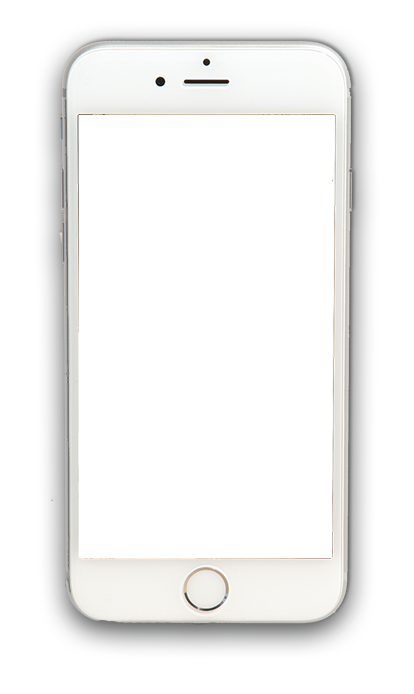
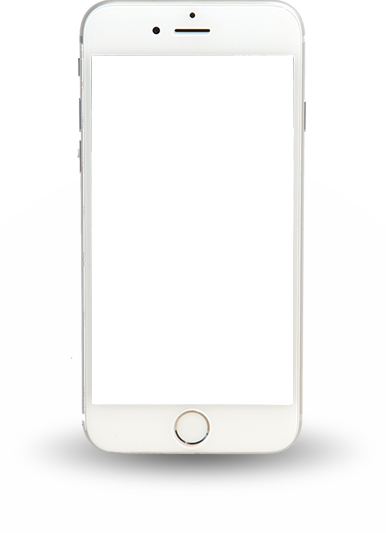
css change

Changed region(s): [[0.0933, 0.0, 0.9016, 0.9306]]

diff --git a/src/assets/styles/_utils.scss b/src/assets/styles/_utils.scss
@@ -286,6 +286,10 @@ p {
     padding: 93px 0;
 }
 
+.padding-top-bottom-10 {
+    padding: 10px 0;
+}
+
 .padding-top-bottom-20 {
     padding: 20px 0;
 }
@@ -4409,10 +4413,10 @@ z #generic_price_table .generic_content,
 
 .mob {
     background: url(../images/phone.png) no-repeat center center;
-    height: 694px;
-    width: 414px;
+    height: 602px;
+    width: 366px;
     margin: 0 auto;
-    padding-top: 120px;
+    padding-top: 90px;
 }
 
 .bg-texture {
@@ -4510,9 +4514,9 @@ z #generic_price_table .generic_content,
 }
 
 .round-g-btn:hover {
-    border: 1px solid #00aff0;
+    border: 1px solid #000;
     background: #fff;
-    color: #00aff0;
+    color: #000;
     transition: all .40s ease;
 }
 
@@ -4905,20 +4909,33 @@ z #generic_price_table .generic_content,
 
 .select-btn ul li {
     float: left;
-    width: 107px;
-    height: 75px;
+    width: 85px;
+    height: 85px;
     text-align: center;
-    padding-top: 2px;
     transition: transform .2s;
     /* Animation */
     transition: all .40s ease-out;
-    border-bottom: 1px solid #fff;
-    position: relative;
+    border: 1px solid #eee;
+    display: table;
+}
+
+.select-btn ul li a {
+    display: table-cell;
+    vertical-align: middle;
+    font-size: 14px;
 }
 
 .select-btn ul li img {
     display: block;
     margin: 0 auto;
+    width: 25px;
+}
+
+.select-btn ul li a:hover {
+    background-color: #f0d8c7;
+    -webkit-box-shadow: 6px 6px 7px 0px rgba(0, 0, 0, 0.12);
+    -moz-box-shadow: 6px 6px 7px 0px rgba(0, 0, 0, 0.12);
+    box-shadow: 6px 6px 7px 0px rgba(0, 0, 0, 0.12);
 }
 
 .select-btn ul li:hover img {
@@ -4929,43 +4946,44 @@ z #generic_price_table .generic_content,
 .selected {
     transform: scale(1.1);
     transition: all .40s ease;
+    background-color: #f0d8c7;
+    -webkit-box-shadow: 6px 6px 7px 0px rgba(0, 0, 0, 0.12);
+    -moz-box-shadow: 6px 6px 7px 0px rgba(0, 0, 0, 0.12);
+    box-shadow: 6px 6px 7px 0px rgba(0, 0, 0, 0.12);
 }
 
-.selected::before {
-    content: "";
-    background: #00aff0;
-    height: 2px;
-    width: 107px;
-    position: absolute;
-    bottom: 0;
-    left: 0;
-    transition: all .40s ease;
-}
-
-.select-btn ul li::before {
-    content: "";
-    background: #f7f5f5;
-    height: 2px;
-    width: 104px;
-    position: absolute;
-    bottom: 0;
-    left: 0;
-    transition: all .40s ease-out;
-}
-
-.select-btn ul li:hover ::before {
-    content: "";
-    background: #00aff0;
-    height: 2px;
-    width: 107px;
-    position: absolute;
-    bottom: 0;
-    left: 0;
-    transition: all .40s ease;
-}
-
+// .selected::before {
+//     content: "";
+//     background: #00aff0;
+//     height: 2px;
+//     width: 107px;
+//     position: absolute;
+//     bottom: 0;
+//     left: 0;
+//     transition: all .40s ease;
+// }
+// .select-btn ul li::before {
+//     content: "";
+//     background: #f7f5f5;
+//     height: 2px;
+//     width: 104px;
+//     position: absolute;
+//     bottom: 0;
+//     left: 0;
+//     transition: all .40s ease-out;
+// }
+// .select-btn ul li:hover ::before {
+//     content: "";
+//     background: #00aff0;
+//     height: 2px;
+//     width: 107px;
+//     position: absolute;
+//     bottom: 0;
+//     left: 0;
+//     transition: all .40s ease;
+// }
 .wallpaper-size {
-    height: 423px;
+    height: 355px;
     margin: 0 79px;
     background-size: cover;
     border-radius: 8px;

diff --git a/src/app/layout/create-app/create-app.component.html b/src/app/layout/create-app/create-app.component.html
@@ -4,10 +4,10 @@
         <mat-step [stepControl]="stepOne">
             <form [formGroup]="stepOne" class="contact-form row">
 
-                <div class="col-md-12 get-in-touch bg-white padding-top-bottom-20">
+                <div class="col-md-12 get-in-touch bg-white padding-top-bottom-10">
                     <div class="container">
                         <h1 class="title fontface-one text-color-dark letter-spacing">
-                            <span>5 steps in 5 minutes for your app</span> Choose your business category
+                            Choose your business category
                         </h1>
                     </div>
                 </div>
